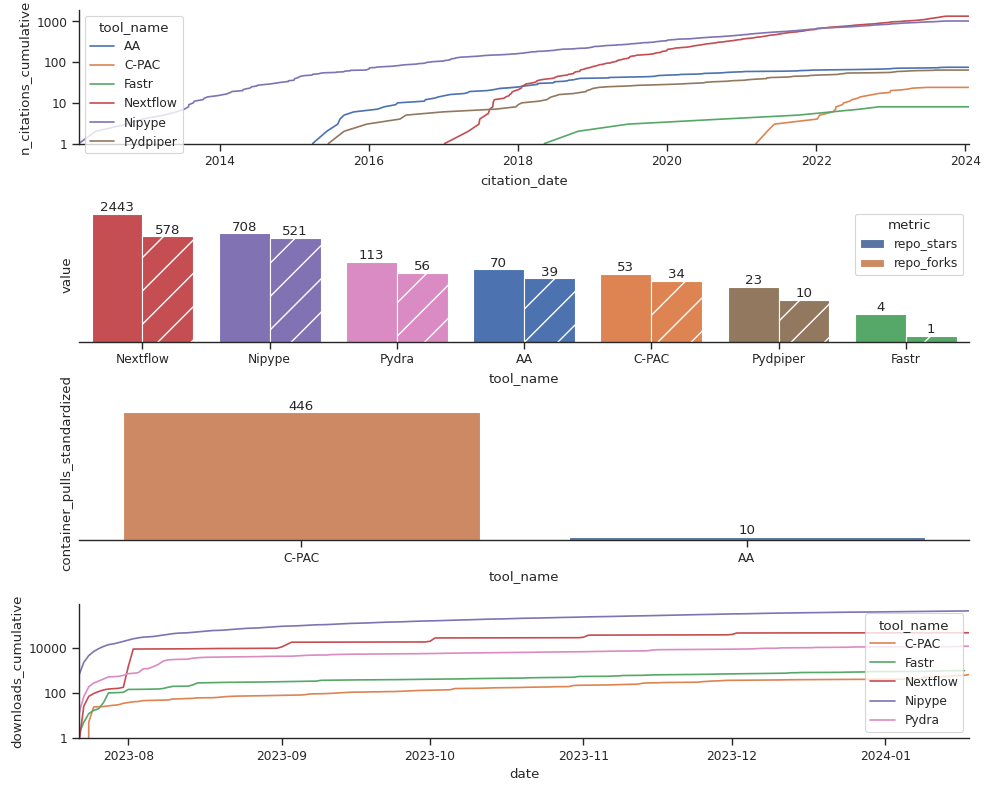
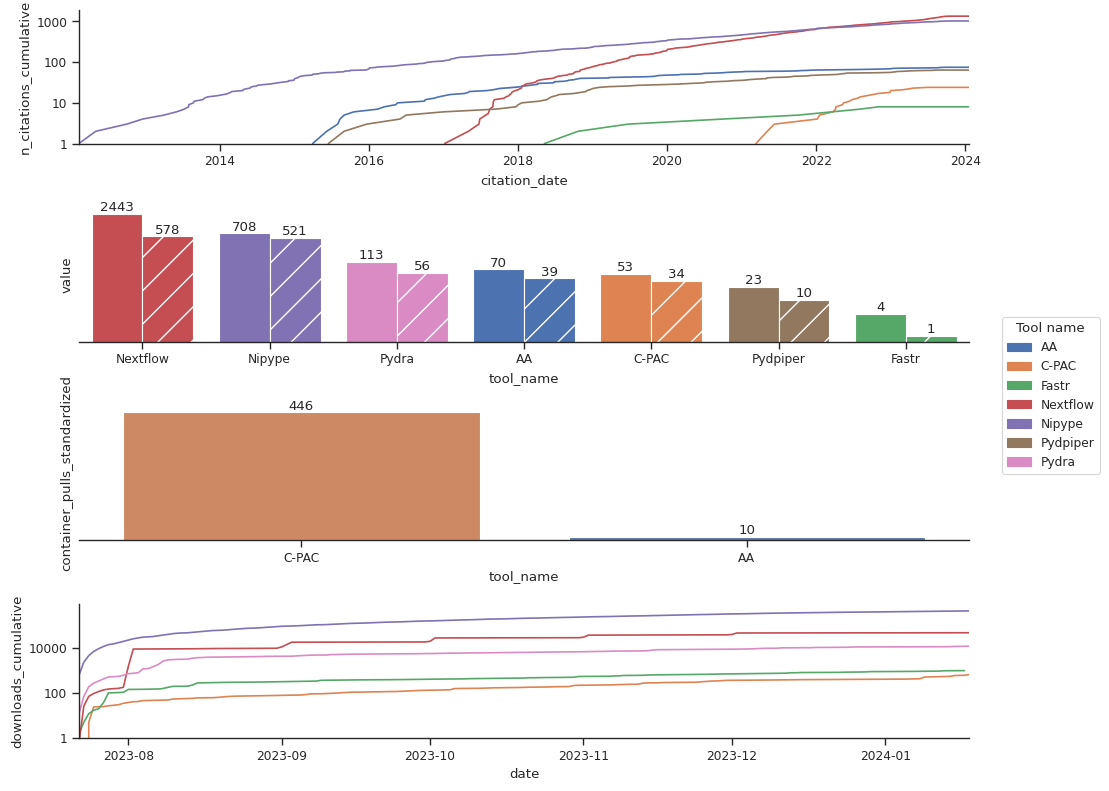
use a single legend outside the panels

diff --git a/code/generate_figures.py b/code/generate_figures.py
@@ -23,7 +23,7 @@ from utils import (
     generate_col_standardized,
 )
 from metrics import compute_metrics
-from plotting import plot_timeseries, plot_bar
+from plotting import add_legend, plot_timeseries, plot_bar
 
 CITATION_CORRECTIONS = {
     # BIDS Apps
@@ -110,7 +110,7 @@ def plot_repo(df_metrics: pd.DataFrame, ax=None, hatches=None, palette=None) -> 
         )
     
     df_metrics = df_metrics.sort_values(COL_REPO_STARS, ascending=False)
-    n_tools = len(df_metrics[COL_NAME].unique())
+    n_tools = len(df_metrics)
     
     col_metric = 'metric'
     col_value = 'value'
@@ -199,7 +199,7 @@ def plot_python_timeseries(df_metrics: pd.DataFrame, ax=None, palette=None) -> p
             min_date_pypi_all_tools = min(min_date_pypi_all_tools, min_date_pypi)
 
     # add initial entry for all tools
-    for tool in df_metrics[COL_NAME].unique():
+    for tool in df_metrics[COL_NAME]:
         data_for_df_downloads.append({
             COL_NAME: tool,
             col_date: min_date_pypi,
@@ -406,6 +406,15 @@ def generate_figures(
                 ax=ax_python_total,
                 palette=palette,
             )
+
+        add_legend(
+            fig,
+            palette={
+                tool: palette[tool]
+                for tool in df_metrics_section[COL_NAME].sort_values()
+            },
+            title='Tool name',
+        )
 
         fig.tight_layout()
 

diff --git a/code/plotting.py b/code/plotting.py
@@ -1,7 +1,26 @@
+from typing import Mapping
+
+import matplotlib.patches as mpatches
+import matplotlib.pyplot as plt
 import seaborn as sns
 from matplotlib.ticker import FormatStrFormatter
 
+def add_legend(fig: plt.Figure, palette: Mapping[str, str], title=None):
+    legend_handles = [
+        mpatches.Patch(color=color, label=label)
+        for label, color in palette.items()
+    ]
+    legend = fig.legend(
+        handles=legend_handles,
+        loc='center left',
+        bbox_to_anchor=(1, 0.5),
+    )
+    legend.set_title(title)
+    return fig
+
 def plot_timeseries(data, x, y, log_scale=True, **kwargs):
+    if 'legend' not in kwargs:
+        kwargs['legend'] = False
     ax = sns.lineplot(data=data, x=x, y=y, **kwargs)
     if log_scale:
         ax.set_yscale('log')
@@ -17,6 +36,8 @@ def plot_timeseries(data, x, y, log_scale=True, **kwargs):
     return ax
 
 def plot_bar(data, x, y, log_scale=False, **kwargs):
+    if 'legend' not in kwargs:
+        kwargs['legend'] = False
     ax = sns.barplot(data=data, x=x, y=y, **kwargs)
     for container in ax.containers:
         ax.bar_label(container, fmt='%.0f')
